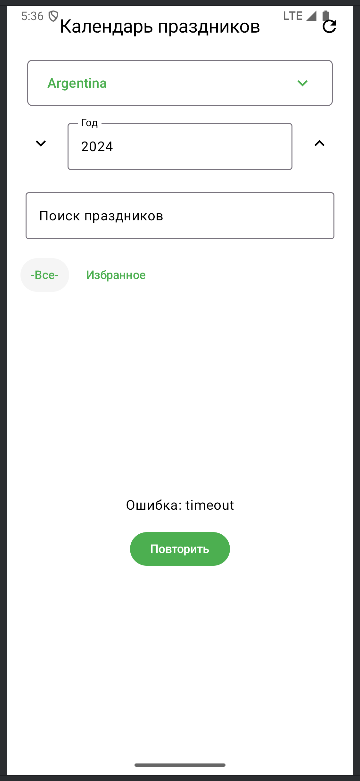
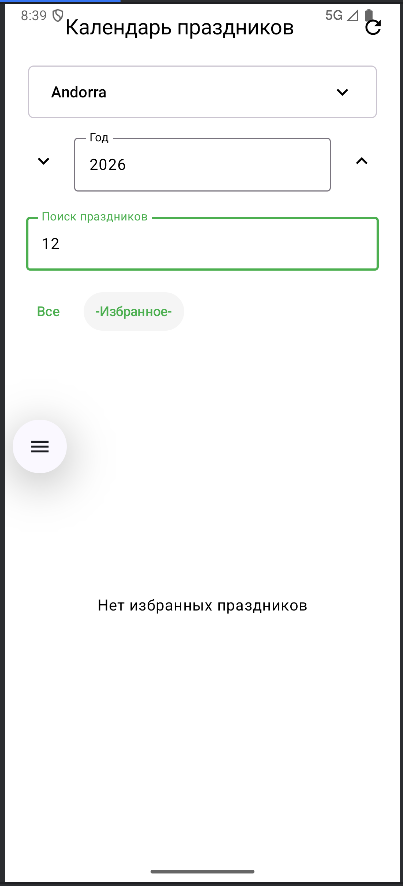
FinalCut

diff --git a/app/src/main/java/com/example/android_fefu_homeworks/ui/viewmodel/HolidayViewModel.kt b/app/src/main/java/com/example/android_fefu_homeworks/ui/viewmodel/HolidayViewModel.kt
@@ -41,6 +41,7 @@ class HolidayViewModel @Inject constructor(
                 val favs = repository.getFavourites()
                 favouritesitems = favs
                 uiState = uiState.copy(favourites = favs.map{it.id}.toSet())
+                filterHolidays()
             }   catch (ex: Exception) {
                 uiState = uiState.copy(
                     listState = HolidayListState.Error(
@@ -91,6 +92,9 @@ class HolidayViewModel @Inject constructor(
                 repository.removeFavorite(holidayId)
                 favouritesitems = currentItems.filterNot { it.id ==holidayId }
                 uiState = uiState.copy(favourites = currentIds - holidayId)
+                if (uiState.filter == HolidayFilter.FAVOURITES) {
+                    filterHolidays()
+                }
             }
             else {
                 val holiday = cachedHolidays.firstOrNull() { it.id == holidayId }
@@ -131,7 +135,9 @@ class HolidayViewModel @Inject constructor(
                     isLoadingCountries = false
                 )
             } catch (e: Exception) {
-                uiState = uiState.copy(isLoadingCountries = false)
+                uiState = uiState.copy(listState = HolidayListState.Error(
+                     "Ошибка загрузки стран"
+                ))
             }
         }
     }
@@ -150,7 +156,7 @@ class HolidayViewModel @Inject constructor(
             } catch (e: Exception) {
                 uiState = uiState.copy(
                     listState = HolidayListState.Error(
-                        e.message ?: "Ошибка загрузки праздников"
+                         "Ошибка загрузки праздников"
                     )
                 )
             }
@@ -163,28 +169,36 @@ class HolidayViewModel @Inject constructor(
         val allHolidays = cachedHolidays
 
         if (allHolidays.isEmpty() && uiState.filter != HolidayFilter.FAVOURITES) {
+            uiState = uiState.copy(listState = HolidayListState.Empty)
             // Если праздники еще не загружены, не меняем состояние
             // (оно может быть Loading или Error)
             return
         }
 
         val filtered = when {
-            uiState.filter == HolidayFilter.FAVOURITES -> favouritesitems
-            uiState.query.isNotBlank() -> {
-                val queryLower = uiState.query.lowercase()
-                allHolidays.filter {
-                    it.name.lowercase().contains(queryLower) ||
-                    it.localName.lowercase().contains(queryLower)
+            uiState.filter == HolidayFilter.FAVOURITES -> {
+                if (uiState.query.isNotBlank()) {
+                    val queryLower = uiState.query.lowercase()
+                    favouritesitems.filter {
+                        it.name.lowercase().contains(queryLower) ||
+                                it.localName.lowercase().contains(queryLower)
+                    }
+                } else {
+                    favouritesitems
                 }
             }
-            else -> allHolidays
+            uiState.query.isNotBlank() -> {
+                val queryLower = uiState.query.lowercase()
+                cachedHolidays.filter {
+                    it.name.lowercase().contains(queryLower) ||
+                            it.localName.lowercase().contains(queryLower)
+                }
+            }
+            else -> cachedHolidays
         }
 
         when {
             filtered.isEmpty() && (uiState.query.isNotBlank() || uiState.filter == HolidayFilter.FAVOURITES) -> {
-                uiState = uiState.copy(listState = HolidayListState.Empty)
-            }
-            filtered.isEmpty() -> {
                 uiState = uiState.copy(listState = HolidayListState.Empty)
             }
             else -> {

diff --git a/app/src/main/java/com/example/android_fefu_homeworks/data/HolidayRepository.kt b/app/src/main/java/com/example/android_fefu_homeworks/data/HolidayRepository.kt
@@ -43,8 +43,7 @@ class HolidayRepositoryImpl @Inject constructor(
             localName = Holiday.localName , // если localName не задан
             name = Holiday.name,
             countryCode = Holiday.countryCode,
-            global = Holiday.global,
-            launchYear = Holiday.launchYear
+            global = Holiday.global
         )
 
         // 2. Преобразуем списки типов (например, holiday.types — List<String>)

diff --git a/app/src/main/java/com/example/android_fefu_homeworks/ui/screen/HolidayDetailScreen.kt b/app/src/main/java/com/example/android_fefu_homeworks/ui/screen/HolidayDetailScreen.kt
@@ -131,10 +131,6 @@ fun HolidayDetailScreen(
                     )
                 }
 
-                if (holiday.launchYear != null) {
-                    DetailItem(label = "Год введения", value = holiday.launchYear.toString())
-                }
-
                 if (holiday.types.isNotEmpty()) {
                     Card(
                         modifier = Modifier.fillMaxWidth(),

diff --git a/app/src/main/java/com/example/android_fefu_homeworks/data/remote/NagerDto.kt b/app/src/main/java/com/example/android_fefu_homeworks/data/remote/NagerDto.kt
@@ -20,7 +20,6 @@ data class HolidayDto(
     val countryCode: String,
     val global: Boolean,
     val counties: List<String>?,
-    val launchYear: Int?,
     val types: List<String>
 )
 
@@ -31,6 +30,5 @@ fun HolidayDto.toDomain(): Holiday = Holiday(
     countryCode = countryCode,
     global = global,
     counties = counties,
-    launchYear = launchYear,
     types = types
 )

diff --git a/app/src/main/java/com/example/android_fefu_homeworks/ui/screen/HolidayListScreen.kt b/app/src/main/java/com/example/android_fefu_homeworks/ui/screen/HolidayListScreen.kt
@@ -170,7 +170,6 @@ fun HolidayListScreen(
                 modifier = Modifier.fillMaxWidth()
                     .padding(6.dp),
                 label = { Text("Поиск праздников") },
-                enabled = state.selectedCountryCode != null,
                 singleLine = true
             )
 

diff --git a/app/src/main/java/com/example/android_fefu_homeworks/data/local/FavoriteHolidayWithAll.kt b/app/src/main/java/com/example/android_fefu_homeworks/data/local/FavoriteHolidayWithAll.kt
@@ -19,7 +19,6 @@ fun FavoriteHolidayWithAll.toDomain(): Holiday {
         name = holiday.name,
         countryCode = holiday.countryCode,
         global = holiday.global,
-        launchYear = holiday.launchYear,
         types = types.map { it.name },
         counties = counties.map { it.name }
     )

diff --git a/app/src/main/java/com/example/android_fefu_homeworks/model/Holiday.kt b/app/src/main/java/com/example/android_fefu_homeworks/model/Holiday.kt
@@ -7,7 +7,6 @@ data class Holiday(
     val countryCode: String,
     val global: Boolean,
     val counties: List<String>?,
-    val launchYear: Int?,
     val types: List<String>
 ) {
     val id: String

diff --git a/app/src/main/java/com/example/android_fefu_homeworks/data/local/FavoriteHolidayEntity.kt b/app/src/main/java/com/example/android_fefu_homeworks/data/local/FavoriteHolidayEntity.kt
@@ -15,6 +15,5 @@ data class FavouriteHolidayEntity (
     val name: String,
     val countryCode: String,
     val global: Boolean,
-    val launchYear: Int?,
 )
 

diff --git a/README.md b/README.md
@@ -19,6 +19,47 @@
 - Нет ограничений по количеству запросов (rate limit)
 - Всегда актуальные данные
 
+## Room 
+### Что есть
+3 FavoriteEntity 
+1) FavoriteHoliday - Основная таблица с информацией о празднике.
+   - id (String, primary key) – уникальный идентификатор праздника (скорее всего, приходит с сервера).
+   - date – дата праздника.
+   - localName – название на местном языке.
+   - name – общее название (например, на английском).
+   - countryCode – код страны.
+   - global – флаг, является ли праздник глобальным.
+
+2) Types - Хранит типы праздника (например, «Public», «Bank»).
+   - id (autogenerated) – первичный ключ.
+   - holidayId – внешний ключ, ссылается на favourite_holiday(Id). При удалении праздника все связанные типы удаляются каскадно.
+   - name – название типа.
+
+3) Conties - Содержит графства (регионы), в которых праздник действует.
+   - id (autogenerated) – первичный ключ.
+   - holidayId – внешний ключ к favourite_holiday(Id) с каскадным удалением.
+   - name – название региона.
+
+Связи: один праздник может иметь много записей в favourite_types и favourite_counties (one-to-many). В DAO определены методы для вставки (с конфликтной стратегией REPLACE), удаления по идентификатору и получения всех избранных праздников вместе с их типами и графствами через транзакционный запрос.
+Сама БД денормализована (записи типов/регионов дублируются), так как было бы необходимо создавать отдельные таблицы со связками many-to-many и заранее узнавать какие есть данные "всевозможные", а на это нет особых причин вроде
+
+### Сценарий
+Приложение получает данные о праздниках из внешнего API. Пользователь может добавлять праздники в избранное. При этом выполняется транзакция:
+
+- в favourite_holiday сохраняется основная информация о празднике;
+
+- в favourite_types и favourite_conties построчно записываются все соответствующие типы и графства (каждая строка связывается с holidayId).
+
+- При просмотре списка избранного вызывается метод getAll(), который объединяет данные из трёх таблиц и возвращает объекты FavoriteHolidayWithAll, содержащие праздник и два списка (типов и графств). Затем эти данные преобразуются в доменную модель Holiday для отображения в UI.
+
+- Если пользователь удаляет праздник из избранного (deleteById), благодаря внешним ключам с CASCADE автоматически удаляются и все связанные типы и графства.
+
+## Как проверить?
+1) Выберите страну,год из списка
+2) Отметьте в избранное (нажмите на сердечко)
+3) Зайдите в избранное и проверьте что выбрали
+4) Выйдите из приложения
+5) Запустите заново и проверьте избранное
 
 ## Скриншоты
 
@@ -39,47 +80,3 @@
 ![Скриншот 8](8.png)
 
 ![Скриншот 9](9.png)
-
-## Чеклист выполнения
-
-### Обязательный функционал
-
-- **List/Search экран** - список праздников с поиском и фильтрацией
-- **Detail/{id} экран** - детали праздника по ID в route
-
-#### B) Архитектура
-- **UiState** - `HolidayUiState` с `HolidayListState` (Loading, Error, Empty, Success)
-- **ViewModel** - `HolidayViewModel` с обработкой состояний
-- **Stateless UI** - экраны получают состояние через параметры
-- **Repository** - `HolidayRepository` между ViewModel и Retrofit
-
-#### C) Coroutines + Retrofit
-- **Retrofit** - все сетевые запросы через Retrofit
-- **suspend функции** - все методы API являются suspend функциями
-- **viewModelScope** - все корутины запускаются из viewModelScope
-- **State + callbacks** - использование UiState и callback функций (onEvent)
-
-#### D) UI состояния
-- **Loading** - CircularProgressIndicator при загрузке
-- **Error** - сообщение об ошибке + кнопка Retry
-- **Empty** - сообщение когда ничего не найдено
-- **Success** - список праздников в LazyColumn
-
-#### E) Избранное
-- **Локальное хранение** - избранное хранится в ViewModel state (Set<String>)
-- **Добавление/удаление** - можно добавлять и убирать праздники из избранного
-
-### Бонусы
-- **Debounce поиска** - поиск с задержкой 400ms через Job + delay, с отменой предыдущего запроса
-- **Кнопка Refresh** - кнопка обновления данных в TopAppBar
-- **Кэш последнего результата** - кэширование последнего результата в памяти (cachedHolidays)
-- **Логирование запросов** - OkHttp logging interceptor с уровнем BODY
-- **Перевод типов праздников** - типы праздников переведены на русский язык
-
-### Особенности реализации
-- Все сетевые запросы выполняются в корутинах через `viewModelScope`
-- Состояния UI обрабатываются через sealed class `HolidayListState`
-- Избранное хранится в `Set<String>` в состоянии ViewModel
-- Поиск использует debounce
-- Кэширование результатов в памяти для быстрого переключения фильтров
-- Типы праздников автоматически переводятся на русский язык через extension-функцию в модели Holiday
